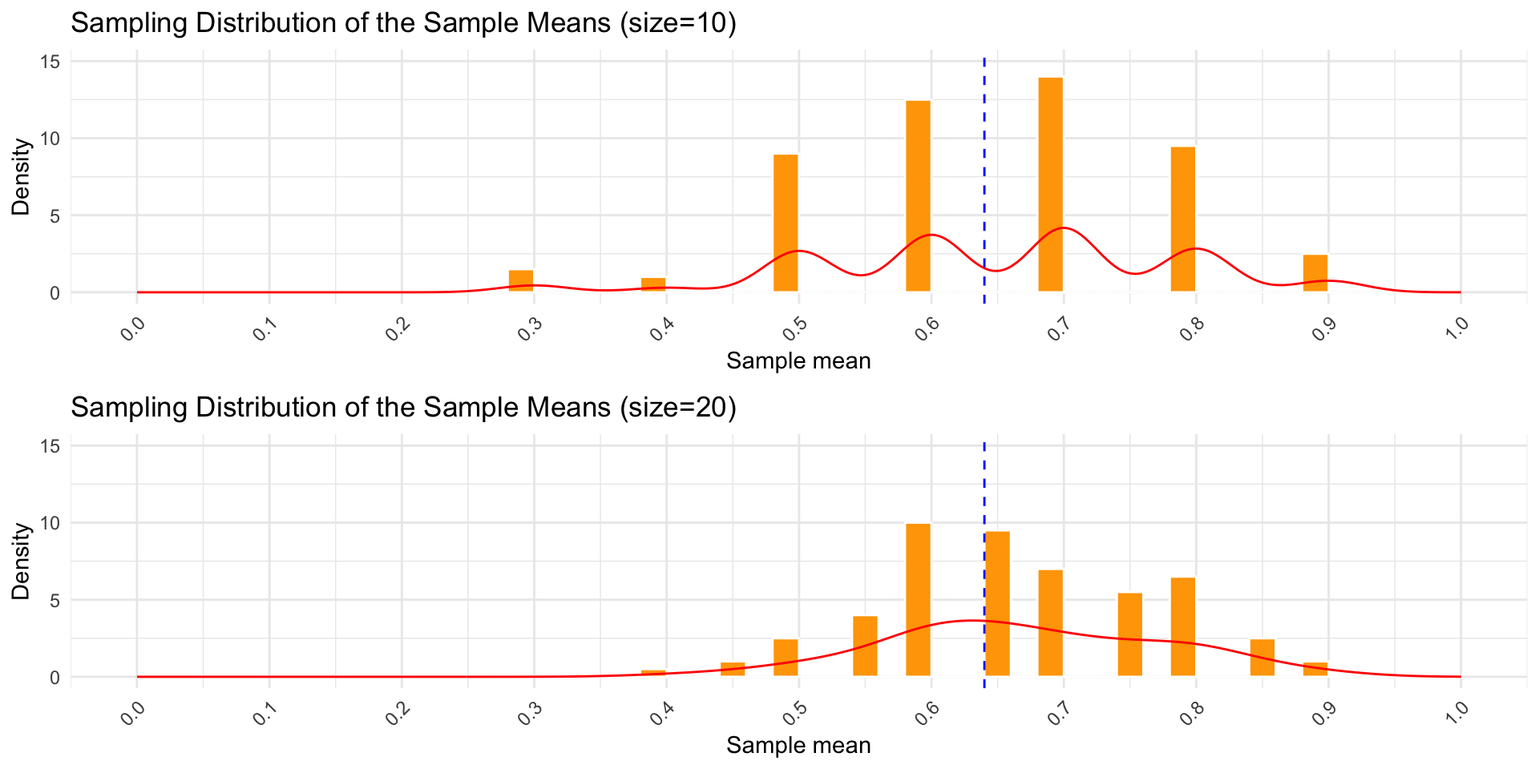
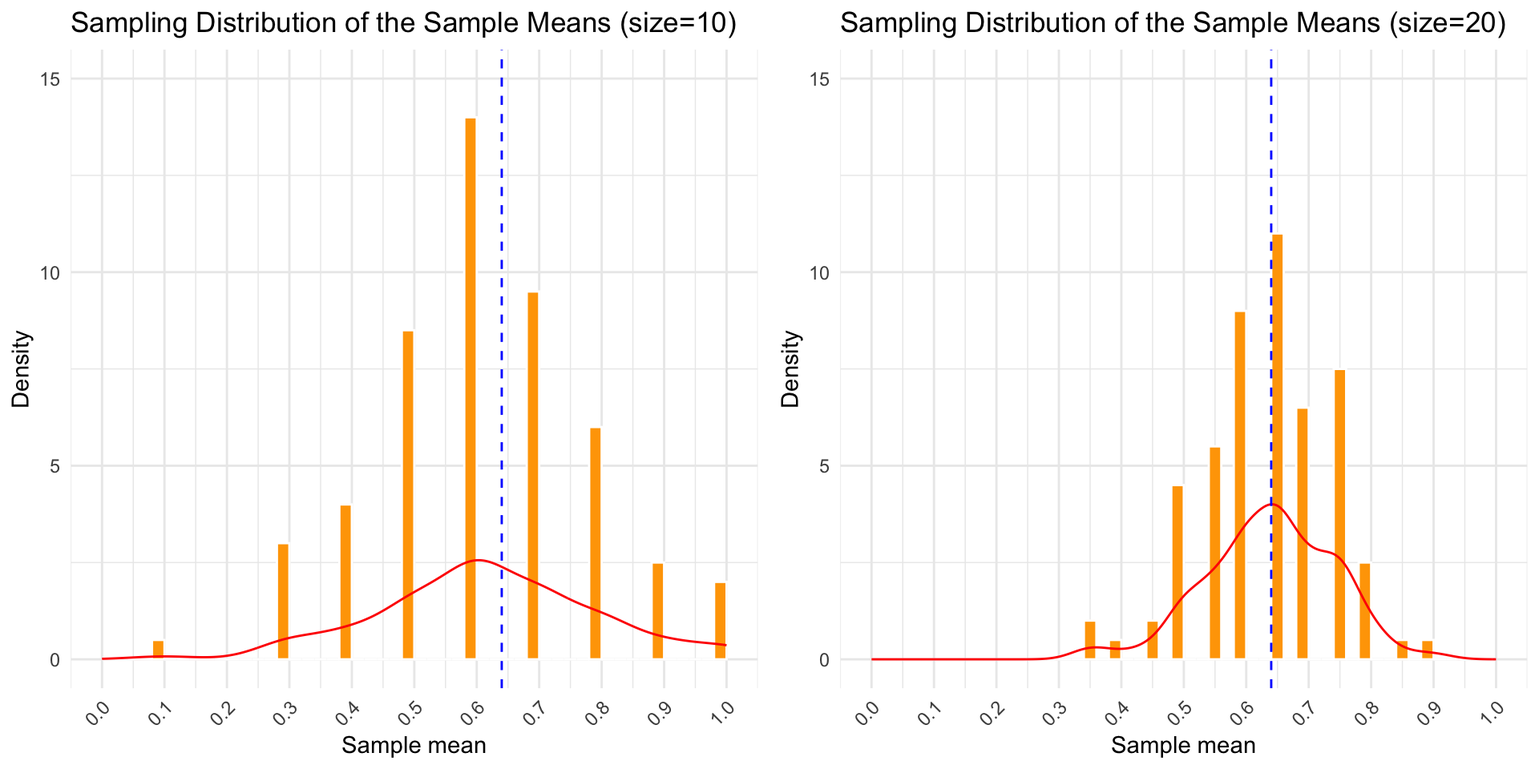
update clt again

diff --git a/content/datasci-simplified/central-limit-theorem/index.html b/content/datasci-simplified/central-limit-theorem/index.html
@@ -98,8 +98,6 @@
   <link href="index_files/libs/revealjs/plugin/quarto-line-highlight/line-highlight.css" rel="stylesheet">
   <link href="index_files/libs/revealjs/plugin/reveal-menu/menu.css" rel="stylesheet">
   <link href="index_files/libs/revealjs/plugin/reveal-menu/quarto-menu.css" rel="stylesheet">
-  <link href="index_files/libs/revealjs/plugin/reveal-chalkboard/font-awesome/css/all.css" rel="stylesheet">
-  <link href="index_files/libs/revealjs/plugin/reveal-chalkboard/style.css" rel="stylesheet">
   <link href="index_files/libs/revealjs/plugin/quarto-support/footer.css" rel="stylesheet">
   <style type="text/css">
 
@@ -407,6 +405,10 @@
 <p>Imagine that you have a bag filled with <span style="color: red">red</span> and <span style="color: blue">blue</span> marbles.</p>
 <p>How would you guess the proportion of <span style="color: red">red</span> ones without going through every marble?</p>
 </section>
+<section id="central-limit-theorem" class="slide level2">
+<h2>Central Limit Theorem</h2>
+<p>As the sample size increases, typically when it’s greater than 30, the distribution of the sample means approaches a normal distribution.</p>
+</section>
 <section id="simulating-marble-population" class="slide level2">
 <h2>Simulating Marble Population</h2>
 <div class="cell">
@@ -421,7 +423,7 @@
 <span id="cb1-9"><a href="#cb1-9"></a>prob_red <span class="ot">=</span> <span class="fl">0.64</span></span>
 <span id="cb1-10"><a href="#cb1-10"></a>num_marbles <span class="ot">=</span> <span class="dv">1000</span></span>
 <span id="cb1-11"><a href="#cb1-11"></a></span>
-<span id="cb1-12"><a href="#cb1-12"></a><span class="fu">set.seed</span>(<span class="dv">42</span>) <span class="co"># reproducibility</span></span>
+<span id="cb1-12"><a href="#cb1-12"></a><span class="fu">set.seed</span>(<span class="dv">42</span>) </span>
 <span id="cb1-13"><a href="#cb1-13"></a>marbles <span class="ot">=</span> <span class="fu">sample</span>(<span class="fu">c</span>(red_marble, blue_marble), </span>
 <span id="cb1-14"><a href="#cb1-14"></a>                 <span class="at">size =</span> num_marbles, </span>
 <span id="cb1-15"><a href="#cb1-15"></a>                 <span class="at">replace =</span> <span class="cn">TRUE</span>, </span>
@@ -431,10 +433,11 @@
 <section id="taking-one-sample" class="slide level2">
 <h2>Taking One Sample</h2>
 <div class="cell">
-<div class="sourceCode cell-code" id="cb2"><pre class="sourceCode numberSource r number-lines code-with-copy"><code class="sourceCode r"><span id="cb2-1"><a href="#cb2-1"></a>one_sample <span class="ot">=</span> <span class="fu">get_samples</span>(marbles, <span class="at">sample_size =</span> <span class="dv">10</span>, <span class="at">number_of_samples =</span> <span class="dv">1</span>, <span class="at">func =</span> is_red)</span>
-<span id="cb2-2"><a href="#cb2-2"></a></span>
-<span id="cb2-3"><a href="#cb2-3"></a><span class="fu">kable</span>(one_sample, <span class="st">"html"</span>) <span class="sc">|&gt;</span></span>
-<span id="cb2-4"><a href="#cb2-4"></a>  <span class="fu">kable_styling</span>(<span class="at">font_size =</span> <span class="dv">20</span>)</span></code><button title="Copy to Clipboard" class="code-copy-button"><i class="bi"></i></button></pre></div>
+<div class="sourceCode cell-code" id="cb2"><pre class="sourceCode numberSource r number-lines code-with-copy"><code class="sourceCode r"><span id="cb2-1"><a href="#cb2-1"></a><span class="fu">set.seed</span>(<span class="dv">42</span>)</span>
+<span id="cb2-2"><a href="#cb2-2"></a>one_sample <span class="ot">=</span> <span class="fu">get_samples</span>(marbles, <span class="at">sample_size =</span> <span class="dv">10</span>, <span class="at">number_of_samples =</span> <span class="dv">1</span>, <span class="at">func =</span> is_red)</span>
+<span id="cb2-3"><a href="#cb2-3"></a></span>
+<span id="cb2-4"><a href="#cb2-4"></a><span class="fu">kable</span>(one_sample, <span class="st">"html"</span>) <span class="sc">|&gt;</span></span>
+<span id="cb2-5"><a href="#cb2-5"></a>  <span class="fu">kable_styling</span>(<span class="at">font_size =</span> <span class="dv">20</span>)</span></code><button title="Copy to Clipboard" class="code-copy-button"><i class="bi"></i></button></pre></div>
 <div class="cell-output-display">
 <table class="table" data-quarto-postprocess="true" style="font-size: 20px; margin-left: auto; margin-right: auto;">
 <thead>
@@ -446,6 +449,14 @@
 <tbody>
 <tr class="odd">
 <td style="text-align: right;">1</td>
+<td style="text-align: right;">0</td>
+</tr>
+<tr class="even">
+<td style="text-align: right;">1</td>
+<td style="text-align: right;">1</td>
+</tr>
+<tr class="odd">
+<td style="text-align: right;">1</td>
 <td style="text-align: right;">1</td>
 </tr>
 <tr class="even">
@@ -471,14 +482,6 @@
 <tr class="odd">
 <td style="text-align: right;">1</td>
 <td style="text-align: right;">0</td>
-</tr>
-<tr class="even">
-<td style="text-align: right;">1</td>
-<td style="text-align: right;">0</td>
-</tr>
-<tr class="odd">
-<td style="text-align: right;">1</td>
-<td style="text-align: right;">1</td>
 </tr>
 <tr class="even">
 <td style="text-align: right;">1</td>
@@ -506,14 +509,15 @@
 <div class="sourceCode cell-code" id="cb5"><pre class="sourceCode numberSource r number-lines code-with-copy"><code class="sourceCode r"><span id="cb5-1"><a href="#cb5-1"></a>size <span class="ot">=</span> <span class="dv">10</span></span>
 <span id="cb5-2"><a href="#cb5-2"></a>n <span class="ot">=</span> <span class="dv">100</span></span>
 <span id="cb5-3"><a href="#cb5-3"></a></span>
-<span id="cb5-4"><a href="#cb5-4"></a>samples <span class="ot">=</span> <span class="fu">get_samples</span>(marbles, <span class="at">sample_size =</span> size, <span class="at">number_of_samples =</span> n, <span class="at">func =</span> is_red)</span>
-<span id="cb5-5"><a href="#cb5-5"></a></span>
-<span id="cb5-6"><a href="#cb5-6"></a>sample_proportions <span class="ot">=</span> samples <span class="sc">|&gt;</span></span>
-<span id="cb5-7"><a href="#cb5-7"></a>  <span class="fu">group_by</span>(sample_number) <span class="sc">|&gt;</span></span>
-<span id="cb5-8"><a href="#cb5-8"></a>  <span class="fu">summarise</span>(<span class="at">proportion =</span> <span class="fu">mean</span>(sample_value))</span>
-<span id="cb5-9"><a href="#cb5-9"></a></span>
-<span id="cb5-10"><a href="#cb5-10"></a><span class="fu">kable</span>(<span class="fu">head</span>(sample_proportions, <span class="dv">5</span>), <span class="st">"html"</span>) <span class="sc">|&gt;</span></span>
-<span id="cb5-11"><a href="#cb5-11"></a>  <span class="fu">kable_styling</span>(<span class="at">font_size =</span> <span class="dv">20</span>)</span></code><button title="Copy to Clipboard" class="code-copy-button"><i class="bi"></i></button></pre></div>
+<span id="cb5-4"><a href="#cb5-4"></a><span class="fu">set.seed</span>(<span class="dv">42</span>)</span>
+<span id="cb5-5"><a href="#cb5-5"></a>samples <span class="ot">=</span> <span class="fu">get_samples</span>(marbles, <span class="at">sample_size =</span> size, <span class="at">number_of_samples =</span> n, <span class="at">func =</span> is_red)</span>
+<span id="cb5-6"><a href="#cb5-6"></a></span>
+<span id="cb5-7"><a href="#cb5-7"></a>sample_proportions <span class="ot">=</span> samples <span class="sc">|&gt;</span></span>
+<span id="cb5-8"><a href="#cb5-8"></a>  <span class="fu">group_by</span>(sample_number) <span class="sc">|&gt;</span></span>
+<span id="cb5-9"><a href="#cb5-9"></a>  <span class="fu">summarise</span>(<span class="at">proportion =</span> <span class="fu">mean</span>(sample_value))</span>
+<span id="cb5-10"><a href="#cb5-10"></a></span>
+<span id="cb5-11"><a href="#cb5-11"></a><span class="fu">kable</span>(<span class="fu">head</span>(sample_proportions, <span class="dv">5</span>), <span class="st">"html"</span>) <span class="sc">|&gt;</span></span>
+<span id="cb5-12"><a href="#cb5-12"></a>  <span class="fu">kable_styling</span>(<span class="at">font_size =</span> <span class="dv">20</span>)</span></code><button title="Copy to Clipboard" class="code-copy-button"><i class="bi"></i></button></pre></div>
 <div class="cell-output-display">
 <table class="table" data-quarto-postprocess="true" style="font-size: 20px; margin-left: auto; margin-right: auto;">
 <thead>
@@ -525,23 +529,23 @@
 <tbody>
 <tr class="odd">
 <td style="text-align: right;">1</td>
-<td style="text-align: right;">0.3</td>
+<td style="text-align: right;">0.5</td>
 </tr>
 <tr class="even">
 <td style="text-align: right;">2</td>
-<td style="text-align: right;">0.5</td>
+<td style="text-align: right;">0.7</td>
 </tr>
 <tr class="odd">
 <td style="text-align: right;">3</td>
-<td style="text-align: right;">0.8</td>
+<td style="text-align: right;">0.4</td>
 </tr>
 <tr class="even">
 <td style="text-align: right;">4</td>
-<td style="text-align: right;">0.6</td>
+<td style="text-align: right;">0.7</td>
 </tr>
 <tr class="odd">
 <td style="text-align: right;">5</td>
-<td style="text-align: right;">0.7</td>
+<td style="text-align: right;">0.8</td>
 </tr>
 </tbody>
 </table>
@@ -564,7 +568,7 @@
 <tbody>
 <tr class="odd">
 <td style="text-align: right;">10</td>
-<td style="text-align: right;">0.1337116</td>
+<td style="text-align: right;">0.174298</td>
 </tr>
 </tbody>
 </table>
@@ -586,17 +590,18 @@
 <h2>Increasing Sample Size to 20</h2>
 <div class="cell">
 <div class="sourceCode cell-code" id="cb8"><pre class="sourceCode numberSource r number-lines code-with-copy"><code class="sourceCode r"><span id="cb8-1"><a href="#cb8-1"></a>size <span class="ot">=</span> <span class="dv">20</span></span>
-<span id="cb8-2"><a href="#cb8-2"></a>samples <span class="ot">=</span> <span class="fu">get_samples</span>(marbles, <span class="at">sample_size =</span> size, <span class="at">number_of_samples =</span> n, <span class="at">func =</span> is_red)</span>
-<span id="cb8-3"><a href="#cb8-3"></a></span>
-<span id="cb8-4"><a href="#cb8-4"></a>sample_proportions <span class="ot">=</span> samples <span class="sc">|&gt;</span></span>
-<span id="cb8-5"><a href="#cb8-5"></a>  <span class="fu">group_by</span>(sample_number) <span class="sc">|&gt;</span></span>
-<span id="cb8-6"><a href="#cb8-6"></a>  <span class="fu">summarise</span>(<span class="at">proportion =</span> <span class="fu">mean</span>(sample_value))</span>
-<span id="cb8-7"><a href="#cb8-7"></a></span>
-<span id="cb8-8"><a href="#cb8-8"></a>standard_errors <span class="ot">=</span> standard_errors <span class="sc">|&gt;</span></span>
-<span id="cb8-9"><a href="#cb8-9"></a>  <span class="fu">add_row</span>(<span class="at">sample_size =</span> size, </span>
-<span id="cb8-10"><a href="#cb8-10"></a>          <span class="at">standard_error =</span> <span class="fu">sd</span>(sample_proportions<span class="sc">$</span>proportion))</span>
-<span id="cb8-11"><a href="#cb8-11"></a></span>
-<span id="cb8-12"><a href="#cb8-12"></a><span class="fu">kable</span>(standard_errors)</span></code><button title="Copy to Clipboard" class="code-copy-button"><i class="bi"></i></button></pre></div>
+<span id="cb8-2"><a href="#cb8-2"></a><span class="fu">set.seed</span>(<span class="dv">42</span>)</span>
+<span id="cb8-3"><a href="#cb8-3"></a>samples <span class="ot">=</span> <span class="fu">get_samples</span>(marbles, <span class="at">sample_size =</span> size, <span class="at">number_of_samples =</span> n, <span class="at">func =</span> is_red)</span>
+<span id="cb8-4"><a href="#cb8-4"></a></span>
+<span id="cb8-5"><a href="#cb8-5"></a>sample_proportions <span class="ot">=</span> samples <span class="sc">|&gt;</span></span>
+<span id="cb8-6"><a href="#cb8-6"></a>  <span class="fu">group_by</span>(sample_number) <span class="sc">|&gt;</span></span>
+<span id="cb8-7"><a href="#cb8-7"></a>  <span class="fu">summarise</span>(<span class="at">proportion =</span> <span class="fu">mean</span>(sample_value))</span>
+<span id="cb8-8"><a href="#cb8-8"></a></span>
+<span id="cb8-9"><a href="#cb8-9"></a>standard_errors <span class="ot">=</span> standard_errors <span class="sc">|&gt;</span></span>
+<span id="cb8-10"><a href="#cb8-10"></a>  <span class="fu">add_row</span>(<span class="at">sample_size =</span> size, </span>
+<span id="cb8-11"><a href="#cb8-11"></a>          <span class="at">standard_error =</span> <span class="fu">sd</span>(sample_proportions<span class="sc">$</span>proportion))</span>
+<span id="cb8-12"><a href="#cb8-12"></a></span>
+<span id="cb8-13"><a href="#cb8-13"></a><span class="fu">kable</span>(standard_errors)</span></code><button title="Copy to Clipboard" class="code-copy-button"><i class="bi"></i></button></pre></div>
 <div class="cell-output-display">
 <table data-quarto-postprocess="true">
 <thead>
@@ -608,11 +613,11 @@
 <tbody>
 <tr class="odd">
 <td style="text-align: right;">10</td>
-<td style="text-align: right;">0.1337116</td>
+<td style="text-align: right;">0.1742980</td>
 </tr>
 <tr class="even">
 <td style="text-align: right;">20</td>
-<td style="text-align: right;">0.1056713</td>
+<td style="text-align: right;">0.1035665</td>
 </tr>
 </tbody>
 </table>
@@ -625,7 +630,7 @@
 <h2>Increasing Sample Size to 20</h2>
 <div class="cell">
 <div class="sourceCode cell-code" id="cb9"><pre class="sourceCode numberSource r number-lines code-with-copy"><code class="sourceCode r"><span id="cb9-1"><a href="#cb9-1"></a>p20 <span class="ot">=</span> <span class="fu">plot_sample_means</span>(samples, size, prob_red)</span>
-<span id="cb9-2"><a href="#cb9-2"></a><span class="fu">grid.arrange</span>(p10, p20)</span></code><button title="Copy to Clipboard" class="code-copy-button"><i class="bi"></i></button></pre></div>
+<span id="cb9-2"><a href="#cb9-2"></a><span class="fu">grid.arrange</span>(p10, p20, <span class="at">ncol=</span><span class="dv">2</span>)</span></code><button title="Copy to Clipboard" class="code-copy-button"><i class="bi"></i></button></pre></div>
 
 </div>
 <img data-src="index_files/figure-revealjs/unnamed-chunk-11-1.png" width="960" class="r-stretch"></section>
@@ -633,7 +638,7 @@
 <h2>Increasing Sample Size to 50</h2>
 <div class="cell">
 <div class="sourceCode cell-code" id="cb10"><pre class="sourceCode numberSource r number-lines code-with-copy"><code class="sourceCode r"><span id="cb10-1"><a href="#cb10-1"></a>size <span class="ot">=</span> <span class="dv">50</span></span>
-<span id="cb10-2"><a href="#cb10-2"></a></span>
+<span id="cb10-2"><a href="#cb10-2"></a><span class="fu">set.seed</span>(<span class="dv">42</span>)</span>
 <span id="cb10-3"><a href="#cb10-3"></a>samples <span class="ot">=</span> <span class="fu">get_samples</span>(marbles, <span class="at">sample_size =</span> size, <span class="at">number_of_samples =</span> n, <span class="at">func =</span> is_red)</span>
 <span id="cb10-4"><a href="#cb10-4"></a></span>
 <span id="cb10-5"><a href="#cb10-5"></a>sample_proportions <span class="ot">=</span> samples <span class="sc">|&gt;</span></span>
@@ -656,15 +661,15 @@
 <tbody>
 <tr class="odd">
 <td style="text-align: right;">10</td>
-<td style="text-align: right;">0.1337116</td>
+<td style="text-align: right;">0.1742980</td>
 </tr>
 <tr class="even">
 <td style="text-align: right;">20</td>
-<td style="text-align: right;">0.1056713</td>
+<td style="text-align: right;">0.1035665</td>
 </tr>
 <tr class="odd">
 <td style="text-align: right;">50</td>
-<td style="text-align: right;">0.0724464</td>
+<td style="text-align: right;">0.0669916</td>
 </tr>
 </tbody>
 </table>
@@ -677,7 +682,7 @@
 <h2>Increasing Sample Size to 50</h2>
 <div class="cell">
 <div class="sourceCode cell-code" id="cb11"><pre class="sourceCode numberSource r number-lines code-with-copy"><code class="sourceCode r"><span id="cb11-1"><a href="#cb11-1"></a>p50 <span class="ot">=</span> <span class="fu">plot_sample_means</span>(samples, size, prob_red)</span>
-<span id="cb11-2"><a href="#cb11-2"></a><span class="fu">grid.arrange</span>(p10, p20, p50)</span></code><button title="Copy to Clipboard" class="code-copy-button"><i class="bi"></i></button></pre></div>
+<span id="cb11-2"><a href="#cb11-2"></a><span class="fu">grid.arrange</span>(p10, p20, p50, <span class="at">ncol=</span><span class="dv">2</span>)</span></code><button title="Copy to Clipboard" class="code-copy-button"><i class="bi"></i></button></pre></div>
 
 </div>
 <img data-src="index_files/figure-revealjs/unnamed-chunk-14-1.png" width="960" class="r-stretch"></section>
@@ -685,17 +690,18 @@
 <h2>Increasing Sample Size to 100</h2>
 <div class="cell">
 <div class="sourceCode cell-code" id="cb12"><pre class="sourceCode numberSource r number-lines code-with-copy"><code class="sourceCode r"><span id="cb12-1"><a href="#cb12-1"></a>size <span class="ot">=</span> <span class="dv">100</span></span>
-<span id="cb12-2"><a href="#cb12-2"></a>samples <span class="ot">=</span> <span class="fu">get_samples</span>(marbles, <span class="at">sample_size =</span> size, <span class="at">number_of_samples =</span> n, <span class="at">func =</span> is_red)</span>
-<span id="cb12-3"><a href="#cb12-3"></a></span>
-<span id="cb12-4"><a href="#cb12-4"></a>sample_proportions <span class="ot">=</span> samples <span class="sc">|&gt;</span></span>
-<span id="cb12-5"><a href="#cb12-5"></a>  <span class="fu">group_by</span>(sample_number) <span class="sc">|&gt;</span></span>
-<span id="cb12-6"><a href="#cb12-6"></a>  <span class="fu">summarise</span>(<span class="at">proportion =</span> <span class="fu">mean</span>(sample_value))</span>
-<span id="cb12-7"><a href="#cb12-7"></a></span>
-<span id="cb12-8"><a href="#cb12-8"></a>standard_errors <span class="ot">=</span> standard_errors <span class="sc">|&gt;</span></span>
-<span id="cb12-9"><a href="#cb12-9"></a>  <span class="fu">add_row</span>(<span class="at">sample_size =</span> size, </span>
-<span id="cb12-10"><a href="#cb12-10"></a>          <span class="at">standard_error =</span> <span class="fu">sd</span>(sample_proportions<span class="sc">$</span>proportion))</span>
-<span id="cb12-11"><a href="#cb12-11"></a></span>
-<span id="cb12-12"><a href="#cb12-12"></a><span class="fu">kable</span>(standard_errors, <span class="st">"html"</span>)</span></code><button title="Copy to Clipboard" class="code-copy-button"><i class="bi"></i></button></pre></div>
+<span id="cb12-2"><a href="#cb12-2"></a><span class="fu">set.seed</span>(<span class="dv">42</span>)</span>
+<span id="cb12-3"><a href="#cb12-3"></a>samples <span class="ot">=</span> <span class="fu">get_samples</span>(marbles, <span class="at">sample_size =</span> size, <span class="at">number_of_samples =</span> n, <span class="at">func =</span> is_red)</span>
+<span id="cb12-4"><a href="#cb12-4"></a></span>
+<span id="cb12-5"><a href="#cb12-5"></a>sample_proportions <span class="ot">=</span> samples <span class="sc">|&gt;</span></span>
+<span id="cb12-6"><a href="#cb12-6"></a>  <span class="fu">group_by</span>(sample_number) <span class="sc">|&gt;</span></span>
+<span id="cb12-7"><a href="#cb12-7"></a>  <span class="fu">summarise</span>(<span class="at">proportion =</span> <span class="fu">mean</span>(sample_value))</span>
+<span id="cb12-8"><a href="#cb12-8"></a></span>
+<span id="cb12-9"><a href="#cb12-9"></a>standard_errors <span class="ot">=</span> standard_errors <span class="sc">|&gt;</span></span>
+<span id="cb12-10"><a href="#cb12-10"></a>  <span class="fu">add_row</span>(<span class="at">sample_size =</span> size, </span>
+<span id="cb12-11"><a href="#cb12-11"></a>          <span class="at">standard_error =</span> <span class="fu">sd</span>(sample_proportions<span class="sc">$</span>proportion))</span>
+<span id="cb12-12"><a href="#cb12-12"></a></span>
+<span id="cb12-13"><a href="#cb12-13"></a><span class="fu">kable</span>(standard_errors, <span class="st">"html"</span>)</span></code><button title="Copy to Clipboard" class="code-copy-button"><i class="bi"></i></button></pre></div>
 <div class="cell-output-display">
 <table data-quarto-postprocess="true">
 <thead>
@@ -707,19 +713,19 @@
 <tbody>
 <tr class="odd">
 <td style="text-align: right;">10</td>
-<td style="text-align: right;">0.1337116</td>
+<td style="text-align: right;">0.1742980</td>
 </tr>
 <tr class="even">
 <td style="text-align: right;">20</td>
-<td style="text-align: right;">0.1056713</td>
+<td style="text-align: right;">0.1035665</td>
 </tr>
 <tr class="odd">
 <td style="text-align: right;">50</td>
-<td style="text-align: right;">0.0724464</td>
+<td style="text-align: right;">0.0669916</td>
 </tr>
 <tr class="even">
 <td style="text-align: right;">100</td>
-<td style="text-align: right;">0.0433026</td>
+<td style="text-align: right;">0.0494720</td>
 </tr>
 </tbody>
 </table>
@@ -732,16 +738,12 @@
 <h2>Increasing Sample Size to 100</h2>
 <div class="cell">
 <div class="sourceCode cell-code" id="cb13"><pre class="sourceCode numberSource r number-lines code-with-copy"><code class="sourceCode r"><span id="cb13-1"><a href="#cb13-1"></a>p100 <span class="ot">=</span> <span class="fu">plot_sample_means</span>(samples, size, prob_red)</span>
-<span id="cb13-2"><a href="#cb13-2"></a><span class="fu">grid.arrange</span>(p10, p20, p50, p100, <span class="at">ncol=</span><span class="dv">1</span>)</span></code><button title="Copy to Clipboard" class="code-copy-button"><i class="bi"></i></button></pre></div>
+<span id="cb13-2"><a href="#cb13-2"></a><span class="fu">grid.arrange</span>(p10, p20, p50, p100, <span class="at">ncol=</span><span class="dv">2</span>)</span></code><button title="Copy to Clipboard" class="code-copy-button"><i class="bi"></i></button></pre></div>
 
 </div>
 <img data-src="index_files/figure-revealjs/unnamed-chunk-17-1.png" width="960" class="r-stretch"></section>
-<section id="unravel-the-magic---clt" class="slide level2">
-<h2>Unravel the Magic - CLT</h2>
-<p>As the sample size increases, typically when n &gt; 30, the distribution of the sample means approaches a normal distribution.</p>
-</section>
-<section id="real-world-data" class="slide level2">
-<h2>Real-world Data</h2>
+<section id="skewed-data" class="slide level2">
+<h2>Skewed Data</h2>
 <div class="cell">
 <div class="sourceCode cell-code" id="cb14"><pre class="sourceCode numberSource r number-lines code-with-copy"><code class="sourceCode r"><span id="cb14-1"><a href="#cb14-1"></a><span class="fu">set.seed</span>(<span class="dv">42</span>)</span>
 <span id="cb14-2"><a href="#cb14-2"></a></span>
@@ -760,8 +762,8 @@
 
 </div>
 <img data-src="index_files/figure-revealjs/unnamed-chunk-18-1.png" width="960" class="r-stretch"></section>
-<section id="real-world-data-1" class="slide level2">
-<h2>Real-world Data</h2>
+<section id="skewed-data-1" class="slide level2">
+<h2>Skewed Data</h2>
 <div class="cell">
 <div class="sourceCode cell-code" id="cb15"><pre class="sourceCode numberSource r number-lines code-with-copy"><code class="sourceCode r"><span id="cb15-1"><a href="#cb15-1"></a>samples <span class="ot">=</span> <span class="fu">get_samples</span>(salaries, <span class="at">sample_size =</span> <span class="dv">100</span>, <span class="at">number_of_samples =</span> <span class="dv">100</span>)</span>
 <span id="cb15-2"><a href="#cb15-2"></a><span class="fu">plot_samples_and_averages</span>(samples, <span class="fu">mean</span>(salaries))</span></code><button title="Copy to Clipboard" class="code-copy-button"><i class="bi"></i></button></pre></div>
@@ -777,6 +779,24 @@
 <li>Distribution of sample means becomes more normal as size increases</li>
 <li>Works for any population distribution</li>
 </ul>
+</section>
+<section id="red-marble-proportion-estimation" class="slide level2">
+<h2>Red Marble Proportion Estimation</h2>
+<div class="cell">
+<div class="sourceCode cell-code" id="cb16"><pre class="sourceCode numberSource r number-lines code-with-copy"><code class="sourceCode r"><span id="cb16-1"><a href="#cb16-1"></a><span class="fu">set.seed</span>(<span class="dv">42</span>)</span>
+<span id="cb16-2"><a href="#cb16-2"></a>one_sample <span class="ot">=</span> <span class="fu">sample</span>(marbles, <span class="dv">100</span>)</span>
+<span id="cb16-3"><a href="#cb16-3"></a><span class="fu">print</span>(<span class="fu">str_glue</span>(<span class="st">"Percentage of red marbles: {mean(one_sample == red_marble) * 100}%"</span>))</span></code><button title="Copy to Clipboard" class="code-copy-button"><i class="bi"></i></button></pre></div>
+<div class="cell-output cell-output-stdout">
+<pre><code>Percentage of red marbles: 60%</code></pre>
+</div>
+</div>
+</section>
+<section id="question" class="slide level2">
+<h2>Question</h2>
+<ul>
+<li>How confident are we in the estimation?</li>
+<li>How can we quantify our level of certainty?</li>
+</ul>
 <div class="footer footer-default">
 
 </div>
@@ -791,7 +811,6 @@
   <script src="index_files/libs/revealjs/plugin/pdf-export/pdfexport.js"></script>
   <script src="index_files/libs/revealjs/plugin/reveal-menu/menu.js"></script>
   <script src="index_files/libs/revealjs/plugin/reveal-menu/quarto-menu.js"></script>
-  <script src="index_files/libs/revealjs/plugin/reveal-chalkboard/plugin.js"></script>
   <script src="index_files/libs/revealjs/plugin/quarto-support/support.js"></script>
   
 
@@ -813,8 +832,7 @@
 'autoAnimateEasing': "ease",
 'autoAnimateDuration': 1,
 'autoAnimateUnmatched': true,
-'menu': {"side":"left","useTextContentForMissingTitles":true,"markers":false,"loadIcons":false,"custom":[{"title":"Tools","icon":"<i class=\"fas fa-gear\"></i>","content":"<ul class=\"slide-menu-items\">\n<li class=\"slide-tool-item active\" data-item=\"0\"><a href=\"#\" onclick=\"RevealMenuToolHandlers.fullscreen(event)\"><kbd>f</kbd> Fullscreen</a></li>\n<li class=\"slide-tool-item\" data-item=\"1\"><a href=\"#\" onclick=\"RevealMenuToolHandlers.speakerMode(event)\"><kbd>s</kbd> Speaker View</a></li>\n<li class=\"slide-tool-item\" data-item=\"2\"><a href=\"#\" onclick=\"RevealMenuToolHandlers.overview(event)\"><kbd>o</kbd> Slide Overview</a></li>\n<li class=\"slide-tool-item\" data-item=\"3\"><a href=\"#\" onclick=\"RevealMenuToolHandlers.togglePdfExport(event)\"><kbd>e</kbd> PDF Export Mode</a></li>\n<li class=\"slide-tool-item\" data-item=\"4\"><a href=\"#\" onclick=\"RevealMenuToolHandlers.toggleChalkboard(event)\"><kbd>b</kbd> Toggle Chalkboard</a></li>\n<li class=\"slide-tool-item\" data-item=\"5\"><a href=\"#\" onclick=\"RevealMenuToolHandlers.toggleNotesCanvas(event)\"><kbd>c</kbd> Toggle Notes Canvas</a></li>\n<li class=\"slide-tool-item\" data-item=\"6\"><a href=\"#\" onclick=\"RevealMenuToolHandlers.downloadDrawings(event)\"><kbd>d</kbd> Download Drawings</a></li>\n<li class=\"slide-tool-item\" data-item=\"7\"><a href=\"#\" onclick=\"RevealMenuToolHandlers.keyboardHelp(event)\"><kbd>?</kbd> Keyboard Help</a></li>\n</ul>"}],"openButton":true},
-'chalkboard': {"buttons":true},
+'menu': {"side":"left","useTextContentForMissingTitles":true,"markers":false,"loadIcons":false,"custom":[{"title":"Tools","icon":"<i class=\"fas fa-gear\"></i>","content":"<ul class=\"slide-menu-items\">\n<li class=\"slide-tool-item active\" data-item=\"0\"><a href=\"#\" onclick=\"RevealMenuToolHandlers.fullscreen(event)\"><kbd>f</kbd> Fullscreen</a></li>\n<li class=\"slide-tool-item\" data-item=\"1\"><a href=\"#\" onclick=\"RevealMenuToolHandlers.speakerMode(event)\"><kbd>s</kbd> Speaker View</a></li>\n<li class=\"slide-tool-item\" data-item=\"2\"><a href=\"#\" onclick=\"RevealMenuToolHandlers.overview(event)\"><kbd>o</kbd> Slide Overview</a></li>\n<li class=\"slide-tool-item\" data-item=\"3\"><a href=\"#\" onclick=\"RevealMenuToolHandlers.togglePdfExport(event)\"><kbd>e</kbd> PDF Export Mode</a></li>\n<li class=\"slide-tool-item\" data-item=\"4\"><a href=\"#\" onclick=\"RevealMenuToolHandlers.keyboardHelp(event)\"><kbd>?</kbd> Keyboard Help</a></li>\n</ul>"}],"openButton":true},
 'smaller': true,
  
         // Display controls in the bottom right corner
@@ -985,7 +1003,7 @@
         },
 
         // reveal.js plugins
-        plugins: [QuartoLineHighlight, PdfExport, RevealMenu, RevealChalkboard, QuartoSupport,
+        plugins: [QuartoLineHighlight, PdfExport, RevealMenu, QuartoSupport,
 
           RevealMath,
           RevealNotes,
